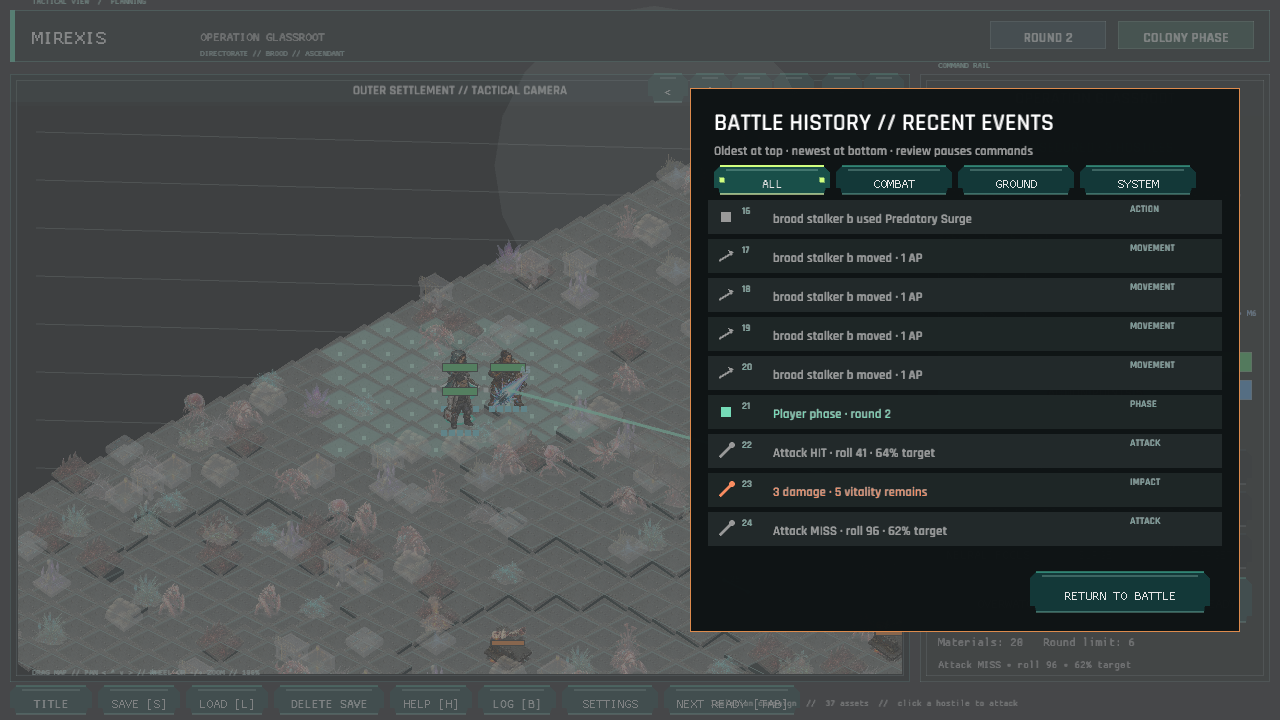
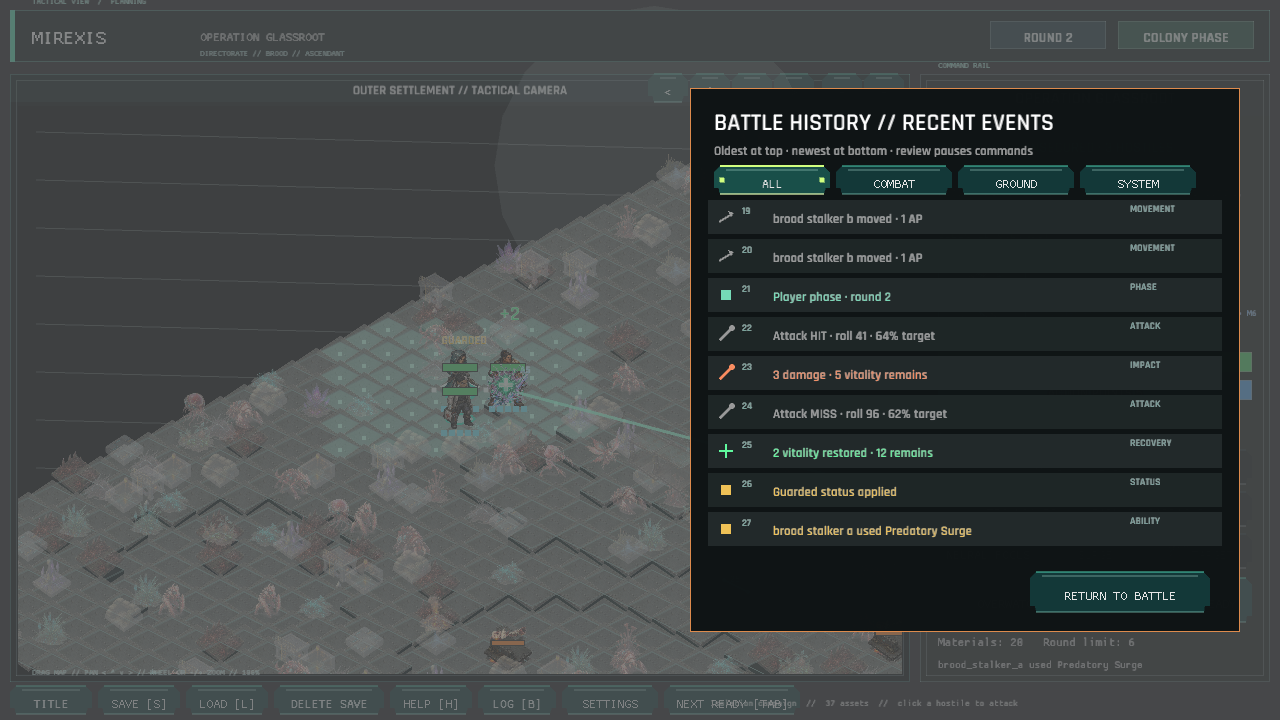
The field chronicle gives every outcome its own mark (battle log semantics)
The battle history previously routed healing, status, abilities, objective changes, and cover damage through generic ACTION labels or unrelated filters. Group these events with their natural combat or ground context, give them explicit kinds, and use distinct icons and colors so the log can be scanned during a fight. Extend the capture fixture and regression coverage, then record the 1.194.0 evidence updates.

diff --git a/src/battle_log_ui.rs b/src/battle_log_ui.rs
@@ -130,9 +130,19 @@ fn event_filter(event: &BattleEvent) -> BattleLogFilter {
         AttackRolled { .. }
         | DamageApplied { .. }
         | UnitIncapacitated { .. }
+        | UnitHealed { .. }
+        | StatusApplied { .. }
+        | MutationActivated { .. }
+        | ClassActionActivated { .. }
+        | SkillActivated { .. }
+        | EquipmentUsed { .. }
         | OverwatchSet { .. }
-        | ReactionTriggered { .. } => BattleLogFilter::Combat,
+        | ReactionTriggered { .. }
+        | EnemyAbilityActivated { .. } => BattleLogFilter::Combat,
         UnitMoved { .. }
+        | ObjectiveSecured { .. }
+        | ObjectiveDamaged { .. }
+        | ObjectiveDestroyed
         | ExtractionCompleted { .. }
         | CoverDamaged { .. }
         | CoverDestroyed { .. }
@@ -149,11 +159,23 @@ fn event_kind(event: &BattleEvent) -> &'static str {
         UnitMoved { .. } => "MOVEMENT",
         AttackRolled { .. } | ReactionTriggered { .. } => "ATTACK",
         DamageApplied { .. } | UnitIncapacitated { .. } => "IMPACT",
+        UnitHealed { .. } => "RECOVERY",
+        StatusApplied { .. } => "STATUS",
+        MutationActivated { .. }
+        | ClassActionActivated { .. }
+        | SkillActivated { .. }
+        | EquipmentUsed { .. }
+        | OverwatchSet { .. }
+        | EnemyAbilityActivated { .. } => "ABILITY",
+        ObjectiveSecured { .. }
+        | ObjectiveDamaged { .. }
+        | ObjectiveDestroyed
+        | ExtractionCompleted { .. } => "OBJECTIVE",
+        CoverDamaged { .. } | CoverDestroyed { .. } => "COVER",
         PhaseStarted { .. } => "PHASE",
         BattleEnded { .. } => "OUTCOME",
         HazardTriggered { .. } | HazardConverted { .. } => "HAZARD",
         ReinforcementsArrived { .. } => "WAVE",
-        _ => "ACTION",
     }
 }
 
@@ -188,6 +210,29 @@ fn draw_event_icon(event: &crate::state::BattleEvent, center: Vec2) {
             );
         }
         "HAZARD" => draw_poly(center.x, center.y, 6, 8.0, 0.0, color),
+        "RECOVERY" => {
+            draw_line(
+                center.x - 7.0,
+                center.y,
+                center.x + 7.0,
+                center.y,
+                2.0,
+                color,
+            );
+            draw_line(
+                center.x,
+                center.y - 7.0,
+                center.x,
+                center.y + 7.0,
+                2.0,
+                color,
+            );
+        }
+        "COVER" => draw_rectangle_lines(center.x - 7.0, center.y - 7.0, 14.0, 14.0, 2.0, color),
+        "OBJECTIVE" => {
+            draw_circle_lines(center.x, center.y, 7.0, 2.0, color);
+            draw_circle(center.x, center.y, 2.0, color);
+        }
         _ => draw_poly(center.x, center.y, 4, 7.0, 45.0, color),
     }
 }
@@ -196,8 +241,23 @@ fn event_color(event: &BattleEvent) -> Color {
     match event {
         BattleEvent::DamageApplied { .. }
         | BattleEvent::UnitIncapacitated { .. }
-        | BattleEvent::HazardTriggered { .. } => Color::new(0.98, 0.55, 0.38, 1.0),
+        | BattleEvent::HazardTriggered { .. }
+        | BattleEvent::ObjectiveDamaged { .. }
+        | BattleEvent::ObjectiveDestroyed
+        | BattleEvent::CoverDamaged { .. }
+        | BattleEvent::CoverDestroyed { .. } => Color::new(0.98, 0.55, 0.38, 1.0),
+        BattleEvent::UnitHealed { .. } => Color::new(0.38, 0.98, 0.62, 1.0),
         BattleEvent::HazardConverted { .. } => Color::new(0.42, 0.94, 0.72, 1.0),
+        BattleEvent::ObjectiveSecured { .. } | BattleEvent::ExtractionCompleted { .. } => {
+            Color::new(0.48, 0.94, 0.72, 1.0)
+        }
+        BattleEvent::StatusApplied { .. }
+        | BattleEvent::MutationActivated { .. }
+        | BattleEvent::ClassActionActivated { .. }
+        | BattleEvent::SkillActivated { .. }
+        | BattleEvent::EquipmentUsed { .. }
+        | BattleEvent::OverwatchSet { .. }
+        | BattleEvent::EnemyAbilityActivated { .. } => Color::new(0.94, 0.76, 0.34, 1.0),
         BattleEvent::PhaseStarted { .. } | BattleEvent::BattleEnded { .. } => {
             Color::new(0.46, 0.86, 0.72, 1.0)
         }

diff --git a/src/battle_log_ui/tests.rs b/src/battle_log_ui/tests.rs
@@ -1,5 +1,5 @@
 use super::*;
-use crate::state::{BattleEvent, TacticalPhase};
+use crate::state::{BattleEvent, StatusKind, TacticalPhase};
 
 fn attack_event() -> BattleEvent {
     BattleEvent::AttackRolled {
@@ -42,6 +42,41 @@ fn all_filter_keeps_every_event_and_specific_filters_reject_other_groups() {
     assert!(filter_matches(BattleLogFilter::Combat, &attack));
     assert!(!filter_matches(BattleLogFilter::Ground, &attack));
     assert!(filter_matches(BattleLogFilter::System, &phase));
+}
+
+#[test]
+fn battle_log_groups_secondary_outcomes_and_names_their_event_kinds() {
+    let recovery = BattleEvent::UnitHealed {
+        unit_id: "kira_voss".to_owned(),
+        amount: 2,
+        remaining: 8,
+    };
+    let status = BattleEvent::StatusApplied {
+        unit_id: "kira_voss".to_owned(),
+        status: StatusKind::Guarded,
+    };
+    let ability = BattleEvent::EnemyAbilityActivated {
+        unit_id: "brood_stalker_a".to_owned(),
+        ability: "Predatory Surge".to_owned(),
+    };
+    let objective = BattleEvent::ObjectiveDamaged {
+        amount: 2,
+        remaining: 5,
+    };
+    let cover = BattleEvent::CoverDestroyed {
+        position: macroquad_toolkit::grid::TilePos::new(5, 4),
+    };
+
+    assert_eq!(event_filter(&recovery), BattleLogFilter::Combat);
+    assert_eq!(event_filter(&status), BattleLogFilter::Combat);
+    assert_eq!(event_filter(&ability), BattleLogFilter::Combat);
+    assert_eq!(event_filter(&objective), BattleLogFilter::Ground);
+    assert_eq!(event_filter(&cover), BattleLogFilter::Ground);
+    assert_eq!(event_kind(&recovery), "RECOVERY");
+    assert_eq!(event_kind(&status), "STATUS");
+    assert_eq!(event_kind(&ability), "ABILITY");
+    assert_eq!(event_kind(&objective), "OBJECTIVE");
+    assert_eq!(event_kind(&cover), "COVER");
 }
 
 #[test]

diff --git a/src/game/capture_tactical.rs b/src/game/capture_tactical.rs
@@ -310,6 +310,19 @@ impl Game {
                 roll: 96,
                 hit_chance: 62,
             },
+            BattleEvent::UnitHealed {
+                unit_id: "mara_venn".to_owned(),
+                amount: 2,
+                remaining: 12,
+            },
+            BattleEvent::StatusApplied {
+                unit_id: "ilya_reed".to_owned(),
+                status: StatusKind::Guarded,
+            },
+            BattleEvent::EnemyAbilityActivated {
+                unit_id: "brood_stalker_a".to_owned(),
+                ability: "Predatory Surge".to_owned(),
+            },
         ]);
         self.show_battle_log = true;
     }

diff --git a/docs/verification/FINAL_CAPTURE_INVENTORY.md b/docs/verification/FINAL_CAPTURE_INVENTORY.md
@@ -30,7 +30,7 @@ Manifest: `scripts/capture_ui.ps1`
 - `ui_first_hour_dialogue.png`: required first-hour conversations focus the visible CONTINUE control after the target speaker opens.
 - `ui_first_hour_promise.png`: the promise beat distinguishes a hardened outer route from a second-operation breach and focuses CONTINUE CAMPAIGN before continuation.
 - `ui_first_hour_operations.png`: guided colony handoff keeps the next mission briefing and active preparation visible inside the open Operations drawer.
-- `ui_battle_log.png` and `ui_phase_replay.png`: attack history and hostile replay beats name HIT/MISS outcomes alongside the underlying roll and target chance.
+- `ui_battle_log.png` and `ui_phase_replay.png`: attack history and hostile replay beats name HIT/MISS outcomes, while the battle log distinguishes ability, recovery, status, objective, and cover events.
 - `ui_combat_feedback.png`: hit, miss, critical, damage, recovery, objective, and cover callouts remain anchored to their affected field locations and stack clear of unit effects.
 - `ui_construction.png`: placement blueprint and reserved resources remain visible at fixed building scale.
 
@@ -118,7 +118,7 @@ Manifest: `scripts/capture_ui.ps1`
[8 lines of base64/hex data omitted]

diff --git a/docs/verification/UI_GRAPHICS_ACCEPTANCE_MATRIX.md b/docs/verification/UI_GRAPHICS_ACCEPTANCE_MATRIX.md
@@ -142,7 +142,7 @@ Each row must have a post-overhaul PNG in the final capture directory and pass t
 | first_hour_dialogue | First-hour conversation handoff | Required conversation has no focus cue on the visible CONTINUE control | `ui_first_hour_dialogue.png` | PASS |
 | first_hour_promise | First-hour promise consequence | Second-operation consequence and the required CONTINUE CAMPAIGN control lack a guided focus cue | `ui_first_hour_promise.png` | PASS |
 | first_hour_operations | First-hour colony handoff | Operations drawer does not make the next briefing action obvious | `ui_first_hour_operations.png` | PASS |
-| battle_log | Battle log | Chronological event history reports raw attack rolls without naming HIT/MISS outcomes | `ui_battle_log.png` | PASS |
+| battle_log | Battle log | Secondary combat, recovery, objective, and cover outcomes use generic ACTION labels or fall into unrelated filters | `ui_battle_log.png` | PASS |
 | combat_feedback | Tactical/feedback | Dense result labels can overlap unit and impact effects, hiding normal HIT feedback | `ui_combat_feedback.png` | PASS |
 | phase_replay | Tactical/replay | Replay beat reports raw attack rolls without naming HIT/MISS outcomes | `ui_phase_replay.png` | PASS |
 | end_phase_guard | Tactical/warning | Warning hierarchy is small | `ui_end_phase_guard.png` | PASS |

diff --git a/docs/PHASE_1_HARDENING.md b/docs/PHASE_1_HARDENING.md
@@ -31,7 +31,7 @@ Status: automated and internal verification complete; external playtests pending
 
 ## Automated verification baseline
 
-- 490 Mirexis unit tests pass, including deployment-row affordance coverage for full,
+- 491 Mirexis unit tests pass, including deployment-row affordance coverage for full,
   minimum, and recovering squads, construction availability coverage for unlocks,
   materials, and unique projects, effective repair-cost affordability coverage, and
   tactical equipment cancellation coverage, invalid-target persistence coverage, and
@@ -49,7 +49,8 @@ Status: automated and internal verification complete; external playtests pending
   objective-interaction, replay-skip, end-phase geometry, readiness-summary, hit-impact,
   incapacitation, objective-completion, extraction-completion, objective-damage, and
   cover-outcome feedback,
-  attack-outcome event-summary, callout-lane geometry, and recovery-audio coverage,
+  attack-outcome event-summary, callout-lane geometry, recovery-audio, and battle-log
+  event-grouping coverage,
   debrief-return, dialogue-continue, advance-control, and briefing-deployment focus
   coverage, and campaign decision resource-gate
   label coverage, facility-upgrade blocker-label coverage, first-hour investment

diff --git a/TECHNICAL_DESIGN.md b/TECHNICAL_DESIGN.md
@@ -2,7 +2,7 @@
 
 Status: systems-rich tech demo; playable-game refinement in progress
 Current production target: cohesive first-hour playable build
-Save/content version: 1.193.0
+Save/content version: 1.194.0
 Target platforms: Windows and browser/WASM
 Runtime: Rust 2021, Macroquad, macroquad-toolkit
 
@@ -969,6 +969,7 @@ Migration coverage:
 | 1.191.0 | Battle history and hostile replay summaries now name HIT or MISS outcomes beside the deterministic roll and target chance; no new save fields |
 | 1.192.0 | Dense combat callouts now use a clamped vertical lane above unit and impact effects so normal HIT feedback remains visible; no new save fields |
 | 1.193.0 | Healing events now use a distinct procedural recovery sound instead of falling through to the generic ability cue; no new save fields |
+| 1.194.0 | Battle history now groups combat actions, recovery, status, objective, and cover outcomes under explicit event-kind labels; no new save fields |
 
 Every future schema bump must migrate the immediately previous version and add a
 fixture test. Validate saved content IDs before adding content removal or renaming.

diff --git a/docs/PHASE_1_ACCEPTANCE_MATRIX.md b/docs/PHASE_1_ACCEPTANCE_MATRIX.md
@@ -1,7 +1,7 @@
 # Phase 1 Acceptance Matrix
 
 Status: implementation evidence audited; observed-session gates pending
-Audit baseline: save/content 1.193.0, validated and committed with this matrix
+Audit baseline: save/content 1.194.0, validated and committed with this matrix
 
 This matrix maps every Phase 1 workstream and definition-of-done requirement to
 authoritative evidence. `VERIFIED` means code, tests, captures, or an operator-run path
